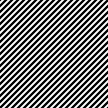
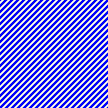
appearance changes

diff --git a/assets/js/pong.js b/assets/js/pong.js
@@ -33,7 +33,7 @@
     context.fillStyle = context.createPattern(img, 'repeat')
     context.fillRect(this.x, this.y, this.width, this.height)
     context.strokeStyle = secColor
-    context.lineWidth = 3
+    context.lineWidth = 2
     context.strokeRect(this.x, this.y, this.width, this.height)
   }
 
@@ -201,21 +201,21 @@
     var step = function () {
       ball.update(playerLeft, playerRight)
 
-      context.fillStyle = '#000'
+      context.fillStyle = '#00f'
       context.fillRect(0, 0, width, height)
       context.font = '16px sans-serif'
       context.fillStyle = secColor
-      context.fillText('score', width / 2 - context.measureText('score').width / 2, 15)
-      context.fillText('voters', width / 2 - context.measureText('voters').width / 2, height - 6)
+      context.fillText('score', width / 2 - context.measureText('score').width / 2, 18)
+      context.fillText('voters', width / 2 - context.measureText('voters').width / 2, height - 10)
       context.font = '20px sans-serif'
       // scores
-      context.fillText(score.pLeft, width / 2 - context.measureText(score.pLeft).width - 4, 38)
-      context.fillText('-', width / 2 - 2, 38)
-      context.fillText(score.pRight, width / 2 + 6, 38)
+      context.fillText(score.pLeft, width / 2 - context.measureText(score.pLeft).width - 4, 40)
+      context.fillText('-', width / 2 - 2, 40)
+      context.fillText(score.pRight, width / 2 + 6, 40)
       // voters
-      context.fillText(voters.pLeft, width / 2 - context.measureText(voters.pLeft).width - 4, height - 23)
-      context.fillText(':', width / 2 - 2, height - 23)
-      context.fillText(voters.pRight, width / 2 + 6, height - 23)
+      context.fillText(voters.pLeft, width / 2 - context.measureText(voters.pLeft).width - 4, height - 30)
+      context.fillText(':', width / 2 - 2, height - 30)
+      context.fillText(voters.pRight, width / 2 + 6, height - 30)
       playerLeft.render()
       playerRight.render()
       ball.render()
@@ -230,5 +230,4 @@
   closeBtn.onclick = function () {
     introDiv.remove()
   }
-
 })()

diff --git a/views/style.sass b/views/style.sass
@@ -1,8 +1,11 @@
+$main: #00f
+
 body
   margin: 10px
   font-family: sans-serif
   overflow: hidden
   opacity: 0
+  color: $main
 
 button
   cursor: pointer
@@ -17,7 +20,8 @@ button
   left: 0
   right: 0
   margin: auto
-  outline: 3px solid white
+  outline: 3px solid blue
+  border: 2px solid white
 
 #clients-count
   font-size: 20px
@@ -33,6 +37,8 @@ button
   height: 200px
   z-index: 1
   background: white
+  outline: 3px solid white
+  border: 3px solid
   width: 320px
   padding: 10px 15px
   font-size: 23px
@@ -46,8 +52,9 @@ button
   margin: auto
   background: none
   outline: none
-  border: 2px solid black
+  border: 3px solid $main
   font-size: inherit
+  color: inherit
   &:hover
-    background: black
+    background: $main
     color: white
